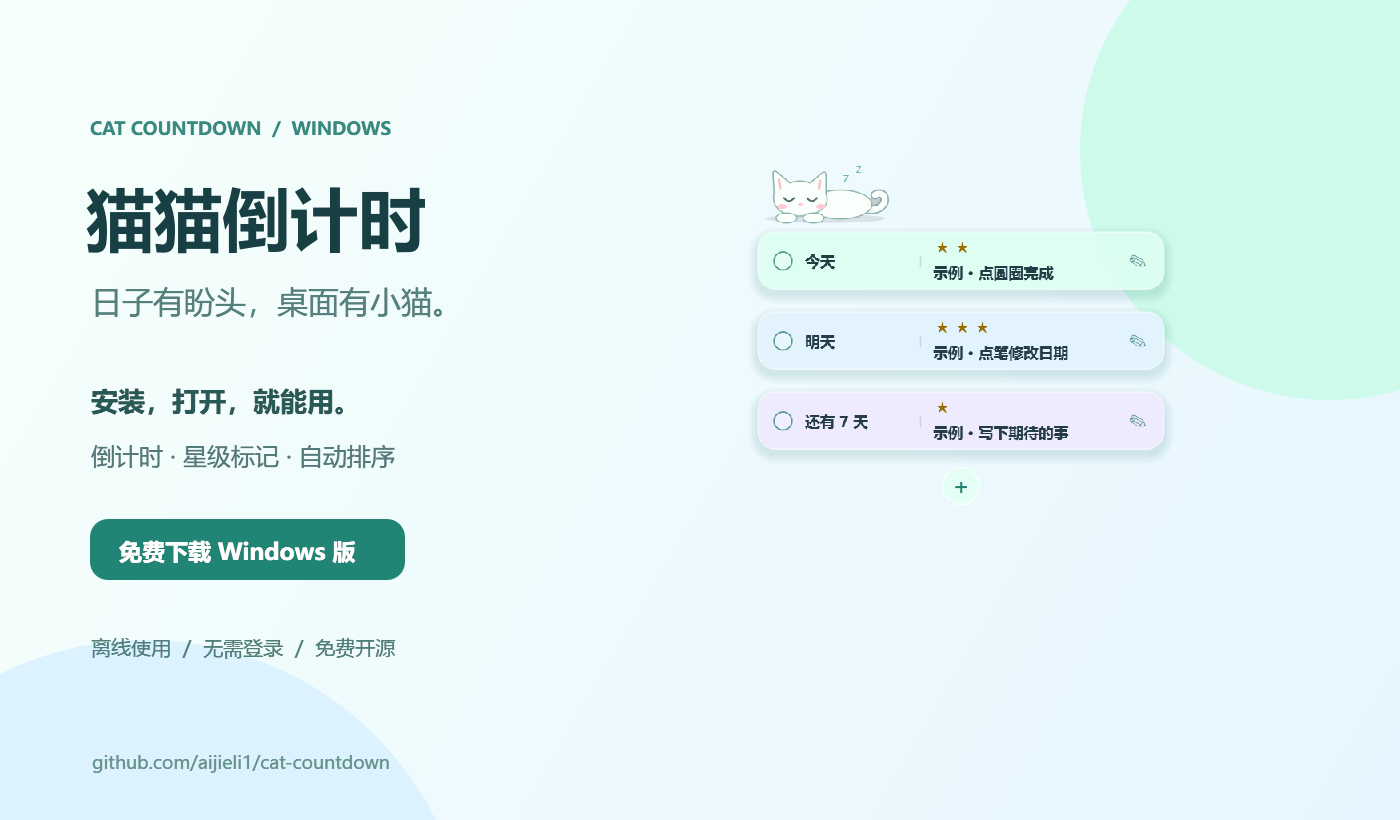
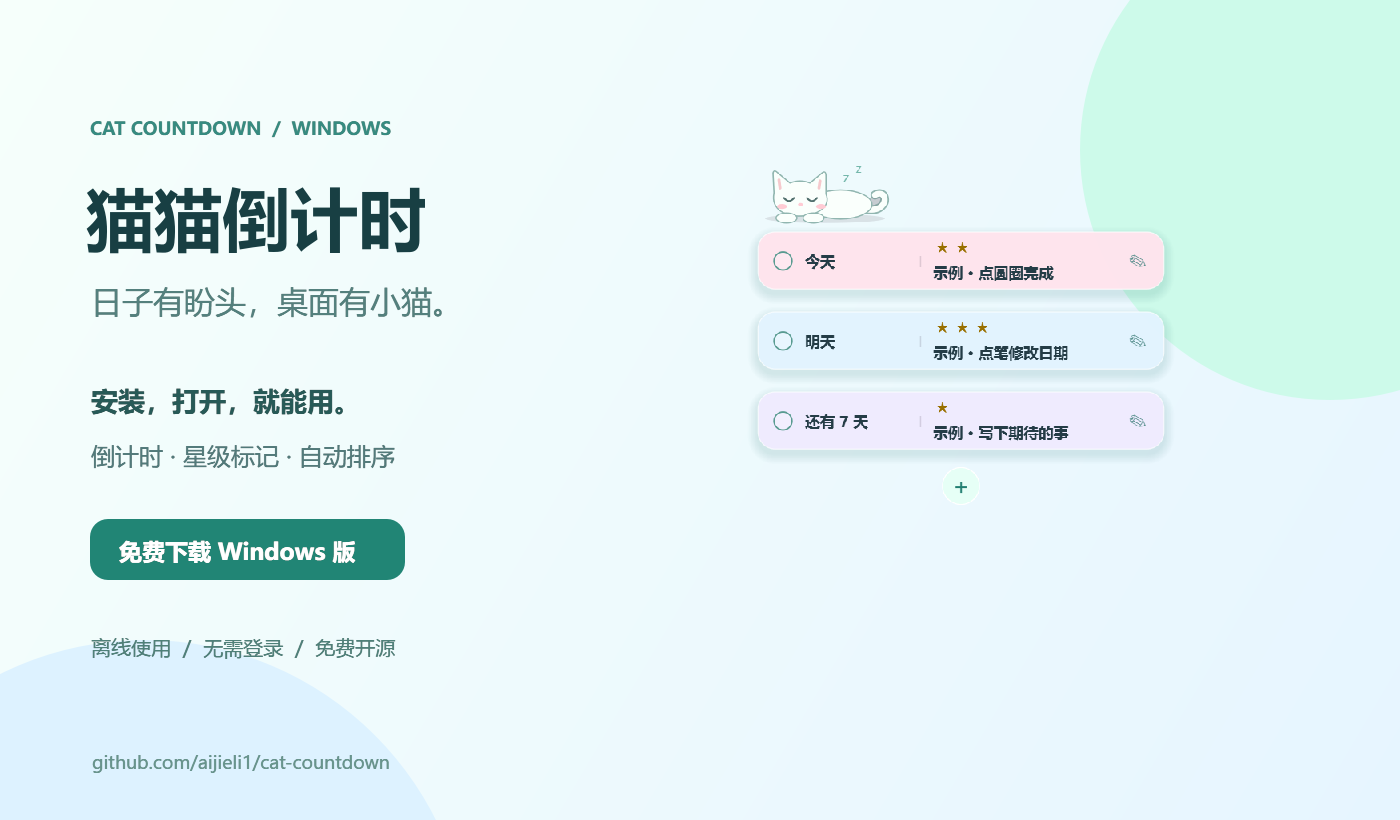
Add card colors and startup option

Changed region(s): [[0.5221, 0.2744, 0.8293, 0.3659]]

diff --git a/main.py b/main.py
@@ -19,7 +19,7 @@ from PySide6.QtGui import QColor, QFont, QFontMetrics, QPainter, QPainterPath, Q
 from PySide6.QtNetwork import QLocalServer, QLocalSocket
 from PySide6.QtWidgets import (
     QApplication, QWidget, QDialog, QLabel, QLineEdit, QPushButton, QVBoxLayout,
-    QHBoxLayout, QScrollArea, QGraphicsOpacityEffect, QSystemTrayIcon, QMenu, QMessageBox,
+    QHBoxLayout, QScrollArea, QGraphicsOpacityEffect, QSystemTrayIcon, QMenu, QMessageBox, QCheckBox,
 )
 
 APP = "CountdownWidget"
@@ -28,7 +28,7 @@ DATA_FILE = os.path.join(DATA_DIR, "tasks.json")
 RUN_KEY = r"Software\Microsoft\Windows\CurrentVersion\Run"
 FONT = "Microsoft YaHei UI"
 WIDTH = 432
-COLORS = ["#DDFFF1", "#E2F4FF", "#F0EBFF", "#EEFFD9", "#FFF3DD"]
+COLORS = ["#FFE4EE", "#E2F4FF", "#F0EBFF", "#FFF3DD", "#FFE8D9"]
 INK = "#243C46"
 
 
@@ -459,11 +459,13 @@ class Group(DragSurface):
         self.scroll.setFixedHeight(height)
         self.setFixedHeight(67 + height + 48)
 
-    def add(self, iso, title, importance=0):
+    def add(self, iso, title, importance=0, color=0):
         sequence = self.data.get("seq", 0) + 1
         if type(importance) is not int or not 0 <= importance <= 5:
             raise ValueError('重要程度必须是0到5颗星')
-        task = {"id": uuid.uuid4().hex, "date": iso, "title": title, "c": sequence % len(COLORS), 'importance': importance}
+        if type(color) is not int or not 0 <= color < len(COLORS):
+            raise ValueError('卡片颜色不正确')
+        task = {"id": uuid.uuid4().hex, "date": iso, "title": title, "c": color, 'importance': importance}
         proposed = dict(self.data, seq=sequence, tasks=self.data["tasks"] + [task])
         if not save_data(proposed):
             return False
@@ -478,11 +480,14 @@ class Group(DragSurface):
             self.data.update(proposed)
         self.rebuild()
 
-    def update_task(self, task, iso, title, importance=None):
+    def update_task(self, task, iso, title, importance=None, color=None):
         importance = task.get('importance', 0) if importance is None else importance
+        color = task.get('c', 0) if color is None else color
         if type(importance) is not int or not 0 <= importance <= 5:
             raise ValueError('重要程度必须是0到5颗星')
-        replacement = dict(task, date=iso, title=title, importance=importance)
+        if type(color) is not int or not 0 <= color < len(COLORS):
+            raise ValueError('卡片颜色不正确')
+        replacement = dict(task, date=iso, title=title, importance=importance, c=color)
         proposed = dict(self.data, tasks=[replacement if item is task else item for item in self.data['tasks']])
         if not save_data(proposed):
             return False
@@ -540,7 +545,7 @@ class InputBox(QDialog):
         self.setWindowTitle("添加倒计时")
         self.setWindowFlags(Qt.FramelessWindowHint | Qt.Tool | Qt.WindowStaysOnTopHint)
         self.setAttribute(Qt.WA_TranslucentBackground)
-        self.setFixedSize(450, 296)
+        self.setFixedSize(450, 342)
         layout = QVBoxLayout(self)
         layout.setContentsMargins(30, 24, 30, 30)
         layout.setSpacing(12)
@@ -570,6 +575,24 @@ class InputBox(QDialog):
         rating_row.addWidget(self.stars)
         rating_row.addStretch()
         layout.addLayout(rating_row)
+        color_row = QHBoxLayout()
+        color_row.addWidget(label('卡片颜色', 10))
+        self.color = 0
+        self.color_buttons = []
+        for index, color in enumerate(COLORS):
+            chip = QPushButton('●')
+            chip.setFixedSize(24, 24)
+            chip.setAccessibleName(f'卡片颜色 {index + 1}')
+            chip.setCursor(Qt.PointingHandCursor)
+            chip.clicked.connect(lambda checked=False, value=index: self.choose_color(value))
+            chip.setStyleSheet(f"QPushButton {{ color: {color}; background: transparent; border: none; font-size: 22px; padding: 0; }}")
+            color_row.addWidget(chip)
+            self.color_buttons.append(chip)
+        color_row.addStretch()
+        layout.addLayout(color_row)
+        self.autostart = QCheckBox('开机时自动显示倒计时')
+        self.autostart.setAccessibleName('开机自启动')
+        layout.addWidget(self.autostart)
         bottom = QHBoxLayout()
         for word in ("今天", "明天", "后天"):
             chip = QPushButton(word)
@@ -582,16 +605,22 @@ class InputBox(QDialog):
         self.submit.clicked.connect(self.commit)
         bottom.addWidget(self.submit)
         layout.addLayout(bottom)
-        self.setStyleSheet(f"QPushButton {{ color: #376E68; background: #E4F7F1; border: 1px solid transparent; border-radius: 9px; padding: 7px 10px; font: 10pt '{FONT}'; }}"
-                          "QPushButton:hover { background: #CFF0E5; } QPushButton:focus { border: 1px solid #4AAE98; }"
-                          "QPushButton#submit { background: #218575; color: white; padding: 8px 17px; }"
-                          "QPushButton#submit:hover { background: #176D60; }"
-                          f"QLineEdit {{ background: #FFFFFF; color: {INK}; border: 1px solid #C8E6DD; border-radius: 11px; padding: 0px 12px; font: 11pt '{FONT}'; selection-background-color: #BDEDDC; }}"
-                          "QLineEdit:focus { border: 1px solid #4AAE98; }")
+        self.setStyleSheet(f"QPushButton {{ color: #9B526C; background: #FFE8F0; border: 1px solid transparent; border-radius: 9px; padding: 7px 10px; font: 10pt '{FONT}'; }}"
+                          "QPushButton:hover { background: #FFD5E3; } QPushButton:focus { border: 1px solid #E889A9; }"
+                          "QPushButton#submit { background: #D96991; color: white; padding: 8px 17px; }"
+                          "QPushButton#submit:hover { background: #BE527A; }"
+                          "QCheckBox { color: #805568; font: 10pt 'Microsoft YaHei UI'; }"
+                          f"QLineEdit {{ background: #FFFFFF; color: {INK}; border: 1px solid #F2BED0; border-radius: 11px; padding: 0px 12px; font: 11pt '{FONT}'; selection-background-color: #FFD0DE; }}"
+                          "QLineEdit:focus { border: 1px solid #E889A9; }")
 
     def paintEvent(self, event):
         p = QPainter(self)
-        paint_panel(p, QRectF(10, 5, self.width() - 20, self.height() - 21), QColor("#F8FFFC"), 21)
+        paint_panel(p, QRectF(10, 5, self.width() - 20, self.height() - 21), QColor("#FFF8FB"), 21)
+
+    def choose_color(self, color):
+        self.color = color
+        for index, chip in enumerate(self.color_buttons):
+            chip.setStyleSheet(f"QPushButton {{ color: {COLORS[index]}; background: transparent; border: {'2px solid #D96991' if index == color else 'none'}; border-radius: 12px; font-size: 22px; padding: 0; }}")
 
     def choose_day(self, day):
         text = self.edit.text().strip()
@@ -607,8 +636,10 @@ class InputBox(QDialog):
             self.hint.setStyleSheet("color: #A55461; background: transparent;")
             self.edit.setFocus()
             return
-        saved = self.on_update(self.editing_task, *task, self.stars.value) if self.editing_task is not None else self.on_create(*task, self.stars.value)
+        saved = self.on_update(self.editing_task, *task, self.stars.value, self.color) if self.editing_task is not None else self.on_create(*task, self.stars.value, self.color)
         if saved:
+            if self.autostart.isChecked() != self.initial_autostart and not set_autostart(self.autostart.isChecked()):
+                QMessageBox.warning(self, '未能设置开机启动', '任务已保存，但开机启动设置没有更改。')
             self.accept()
 
     def popup(self, task=None):
@@ -621,7 +652,10 @@ class InputBox(QDialog):
         area = screen.availableGeometry()
         self.move(area.center() - self.rect().center())
         self.editing_task = task
+        self.initial_autostart = autostart_on()
+        self.autostart.setChecked(self.initial_autostart)
         self.stars.set_value(task.get('importance', 0) if task else 0)
+        self.choose_color(task.get('c', 0) if task else 0)
         self.heading.setText("修改这件小事" if task else "记下一件小事")
         self.setWindowTitle("编辑倒计时" if task else "添加倒计时")
         self.submit.setText("保存  ↵" if task else "添加  ↵")

diff --git a/test_widget.py b/test_widget.py
@@ -46,8 +46,9 @@ def check():
         QTest.keyClick(box.edit, Qt.Key_Return)
         assert box.edit.text() == "2026-02-30 保留输入" and box.isVisible()
         box.edit.setText("明天 交材料")
+        QTest.mouseClick(box.color_buttons[3], Qt.LeftButton)
         QTest.keyClick(box.edit, Qt.Key_Return)
-        assert not box.isVisible() and len(data["tasks"]) == 1
+        assert not box.isVisible() and len(data["tasks"]) == 1 and data['tasks'][0]['c'] == 3
         for offset, title in [(7, "提交季度报告"), (-3, "等待确认"), (0, "组会"), (42, "这是一个需要省略展示的很长很长的任务标题")]:
             assert group.add((today + timedelta(days=offset)).isoformat(), title)
         QTest.qWait(100)
@@ -102,6 +103,7 @@ def check():
         QTest.mouseClick(card.edit_button, Qt.LeftButton)
         assert box.editing_task is original and box.submit.text().startswith('保存')
         QTest.mouseClick(box.stars.buttons[3], Qt.LeftButton)
+        QTest.mouseClick(box.color_buttons[4], Qt.LeftButton)
         box.edit.setText('2026-02-30 无效编辑')
         QTest.keyClick(box.edit, Qt.Key_Return)
         assert box.isVisible() and original in data['tasks']
@@ -110,6 +112,7 @@ def check():
         assert not box.isVisible() and len(data['tasks']) == 4
         assert group.cards_lay.itemAt(3).widget().task['title'] == '已改日期与内容'
         assert group.cards_lay.itemAt(3).widget().task['importance'] == 4
+        assert group.cards_lay.itemAt(3).widget().task['c'] == 4
         assert group.cards_lay.itemAt(3).widget().count.text().startswith('还有')
         edited = group.cards_lay.itemAt(3).widget().task
         box.popup(edited)

diff --git a/README.md b/README.md
@@ -30,12 +30,13 @@
 | --- | --- |
 | 记下一件事 | 点 **＋**，或者按 **Ctrl + Alt + T** |
 | 标记重要程度 | 平时只显示已选星星；鼠标移到卡片上展开五颗星，点选即可更改，再点当前星级清除。编辑窗口也能设置。 |
+| 换卡片颜色 | 新建或编辑时点“卡片颜色”下的色点；粉、蓝、紫、奶黄、蜜桃可随时切换。 |
 | 改时间、改内容 | 点卡片右侧 **✎**，或双击卡片；示例也一样可改 |
 | 完成一件事 | 点左侧圆圈，轻轻淡出 |
 | 换个位置 | 拖动猫猫或卡片，下次打开还在这里 |
 | 找不到窗口 | **再次双击桌面图标**，会把现有窗口带回主屏 |
 | 看完整内容和日期 | 鼠标停在卡片上 |
-| 开机就出现 | 开始菜单 → 猫猫倒计时 → **开启开机启动** |
+| 开机就出现 | 新建或编辑窗口勾选“开机时自动显示倒计时”，也可在开始菜单操作。 |
 | 暂时收起来 / 退出 | 右键系统托盘里的猫猫图标 |
 
 输入也很简单：
